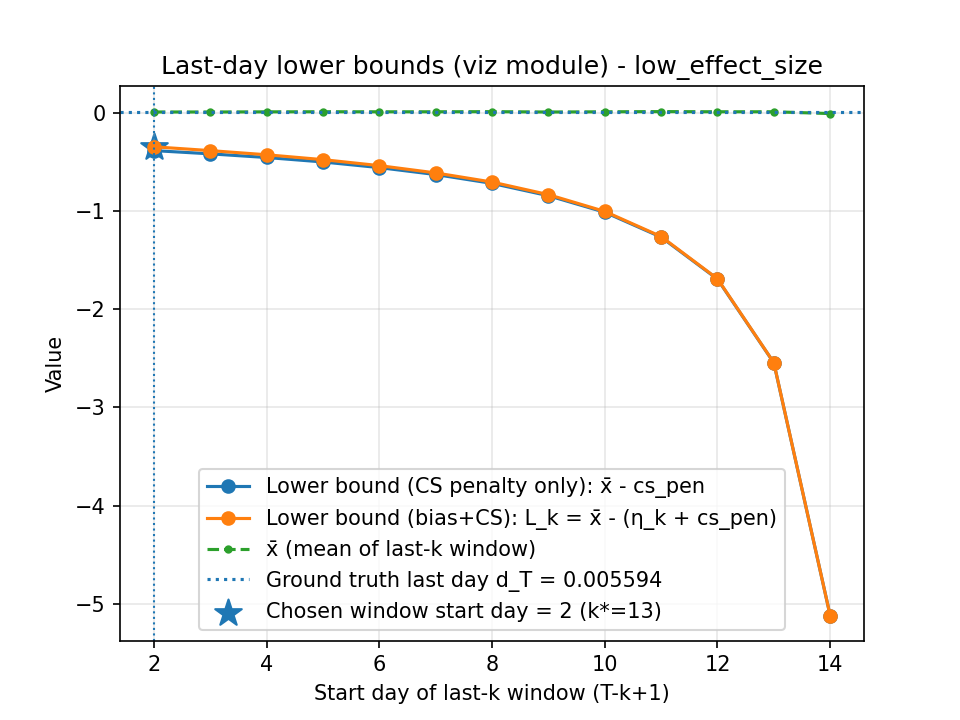
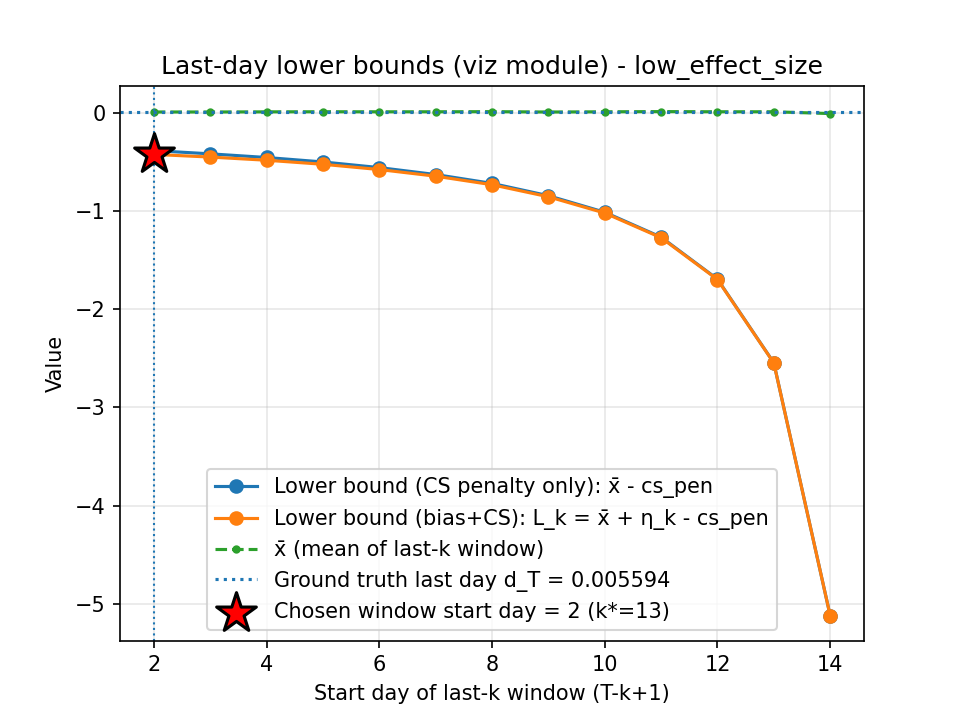
Add extreme variance experiments and update plotting

diff --git a/adaptive_estimator.py b/adaptive_estimator.py
@@ -648,7 +648,7 @@ def last_day_method_lower_bound_confseq_backward(
             cs_pen = (1.0 / k) * math.sqrt(var_term * math.log(log_arg))
 
         eta = float(eta_by_k[k])
-        L = xbar - (eta + cs_pen)
+        L = xbar + eta - cs_pen
 
         L_by_k[k] = float(L)
         xbar_by_k[k] = float(xbar)
@@ -807,9 +807,53 @@ def save_experiment_results(results: Dict[str, Any], output_dir: str = "./experi
 # ============================================================
 
 if __name__ == "__main__":
-
     # Define multiple hand-picked priors to test
     priors_to_test = [
+        {
+            "name": "extreme_sd_b_10k",
+            "config": SyntheticABConfig(
+                K=300, T=14, seed=0, nu=3.0,
+                pi=0.7, sigma_pos=10.0, sigma_neg=10.0,
+                N_T_low=9000, N_T_high=11000,
+                N_C_low=9000, N_C_high=11000,
+            )
+        },
+        {
+            "name": "large_sample_100k",
+            "config": SyntheticABConfig(
+                K=300, T=14, seed=0, nu=3.0,
+                pi=0.7, sigma_pos=0.10, sigma_neg=0.06,
+                N_T_low=90000, N_T_high=110000,
+                N_C_low=90000, N_C_high=110000,
+            )
+        },
+        {
+            "name": "very_high_sd_b_10k",
+            "config": SyntheticABConfig(
+                K=300, T=14, seed=0, nu=3.0,
+                pi=0.7, sigma_pos=2.0, sigma_neg=2.0,
+                N_T_low=9000, N_T_high=11000,
+                N_C_low=9000, N_C_high=11000,
+            )
+        },
+        {
+            "name": "high_sd_b_10k",
+            "config": SyntheticABConfig(
+                K=300, T=14, seed=0, nu=3.0,
+                pi=0.7, sigma_pos=1.0, sigma_neg=1.0,
+                N_T_low=9000, N_T_high=11000,
+                N_C_low=9000, N_C_high=11000,
+            )
+        },
+        {
+            "name": "medium_sample_10k",
+            "config": SyntheticABConfig(
+                K=300, T=14, seed=0, nu=3.0,
+                pi=0.7, sigma_pos=0.10, sigma_neg=0.06,
+                N_T_low=9000, N_T_high=11000,
+                N_C_low=9000, N_C_high=11000,
+            )
+        },
         {
             "name": "baseline_high_snr",
             "config": SyntheticABConfig(
@@ -903,21 +947,6 @@ if __name__ == "__main__":
         plt.savefig(f"./experiment_results/{prior_spec['name']}/plots/etas_thresholds.png", dpi=150)
         plt.close()
         
-        # Plot 2: Lower bounds by window size
-        plt.figure(figsize=(10, 6))
-        ks_plot = np.array(sorted(results['last_day_results']['L_by_k'].keys()))
-        L_vals = np.array([results['last_day_results']['L_by_k'][k] for k in ks_plot])
-        plt.plot(ks_plot, L_vals, marker="o", linewidth=2, markersize=8, label="L_k (lower bound)")
-        plt.axhline(results['held_out_experiment']['true_last_day'], color='r', linestyle='--', linewidth=2, label=f"True value: {results['held_out_experiment']['true_last_day']:.4f}")
-        plt.axvline(results['last_day_results']['k_star'], color='g', linestyle='--', linewidth=2, label=f"k_star: {results['last_day_results']['k_star']}")
-        plt.xlabel("k (window size)", fontsize=12)
-        plt.ylabel("Lower bound value", fontsize=12)
-        plt.title(f"Last-day method lower bounds - {prior_spec['name']}", fontsize=14)
-        plt.legend(fontsize=11)
-        plt.grid(True, alpha=0.3)
-        plt.tight_layout()
-        plt.savefig(f"./experiment_results/{prior_spec['name']}/plots/lower_bounds.png", dpi=150)
-        plt.close()
 
         # Plot 2b: Lower bounds using visualization module
         fig, ax = plot_last_day_lower_bounds(

diff --git a/visualization.py b/visualization.py
@@ -58,7 +58,7 @@ def plot_sample_trajectories(
     plt.ylabel(which)
     plt.title(f"Sample trajectories ({which}), n_plot={n_plot}")
     plt.grid(True, alpha=0.3)
-    plt.show()
+    # plt.show()  # Disabled to prevent pop-up during batch runs
 
 
 def plot_sample_trajectories_aligned_start(
@@ -109,7 +109,7 @@ def plot_sample_trajectories_aligned_start(
     plt.ylabel(f"{which}" + (" (aligned)" if align_start else ""))
     plt.title(f"Sample trajectories ({which}), n_plot={n_plot}, align_start={align_start}")
     plt.grid(True, alpha=0.3)
-    plt.show()
+    # plt.show()  # Disabled to prevent pop-up during batch runs
 
 
 def plot_last_day_lower_bounds(
@@ -117,7 +117,7 @@ def plot_last_day_lower_bounds(
     *,
     T: int,
     true_last_day: float | None = None,
-    title: str = "Last-day backward selection: lower bounds vs window start day",
+    title: str = "Bias-Calibrated Lower Confidence Bound for Last-Day Mean",
     show_xbar: bool = True,
     ax=None,
 ):
@@ -157,6 +157,7 @@ def plot_last_day_lower_bounds(
     noise_only_lb = noise_only_lb[order]
     xbar = xbar[order]
 
+
     if ax is None:
         fig, ax = plt.subplots()
     else:
@@ -165,7 +166,7 @@ def plot_last_day_lower_bounds(
     ax.plot(start_days, noise_only_lb, marker="o",
             label="Lower bound (CS penalty only): x̄ - cs_pen")
     ax.plot(start_days, full_lb, marker="o",
-            label="Lower bound (bias+CS): L_k = x̄ - (η_k + cs_pen)")
+            label="Lower bound (bias+CS): L_k = x̄ + η_k - cs_pen")
 
     if show_xbar:
         ax.plot(start_days, xbar, marker=".", linestyle="--",
@@ -182,8 +183,11 @@ def plot_last_day_lower_bounds(
     idx_star = np.where(start_days == start_star)[0]
     if idx_star.size > 0:
         j = int(idx_star[0])
-        ax.scatter([start_star], [full_lb[j]], marker="*", s=180,
-                   label=f"Chosen window start day = {start_star} (k*={k_star})")
+        ax.scatter(
+            [start_star], [full_lb[j]],
+            marker="*", s=400, color="red", edgecolor="black", linewidth=1.5, zorder=10,
+            label=f"Chosen window start day = {start_star} (k*={k_star})"
+        )
         ax.axvline(start_star, linestyle=":", linewidth=1)
 
     ax.set_xlabel("Start day of last-k window (T-k+1)")
